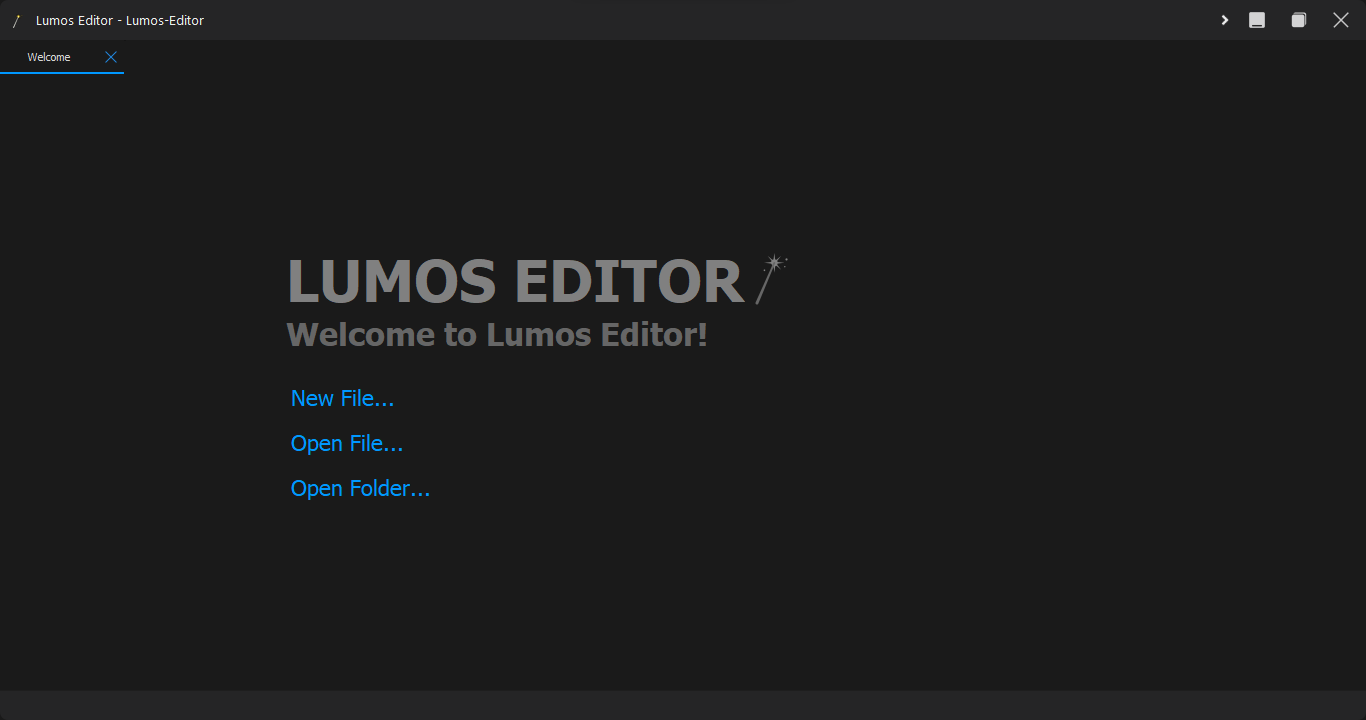
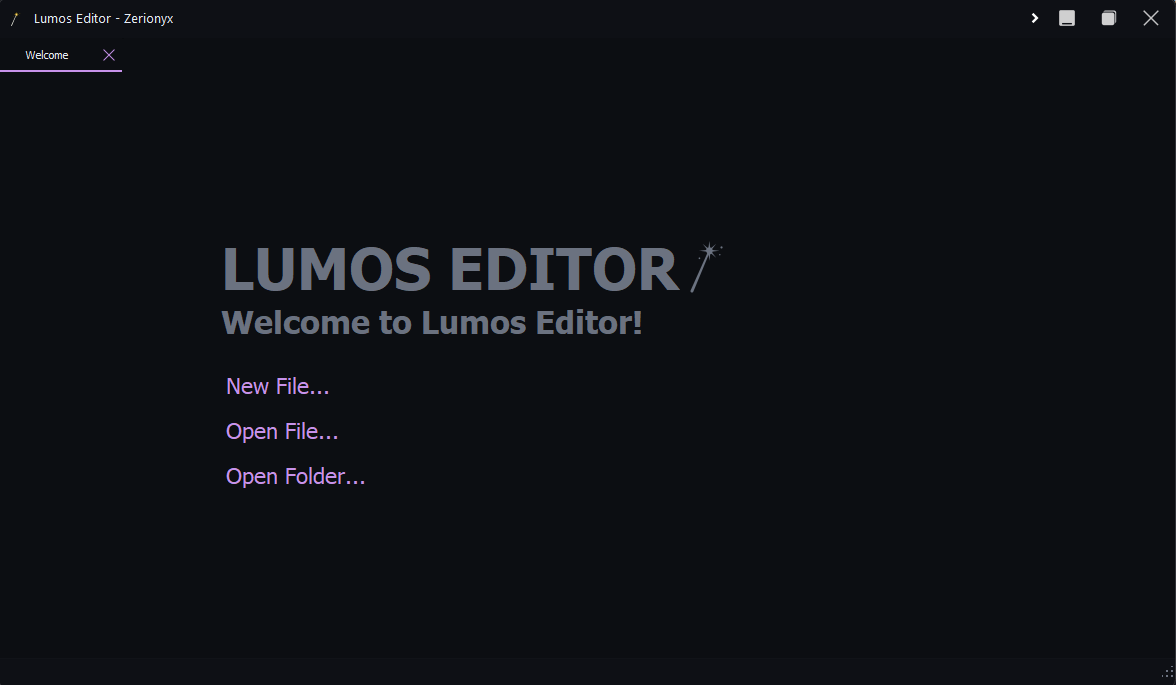
Take a new screenshot

diff --git a/README.md b/README.md
@@ -30,10 +30,6 @@ A modern, extensible code editor built with PyQt5, featuring syntax highlighting
 
 <img src="./imgs/screenshot1.png">
 <img src="./imgs/screenshot2.png">
-<img src="./imgs/screenshot3.png">
-<img src="./imgs/screenshot4.png">
-<img src="./imgs/screenshot5.png">
-<img src="./imgs/screenshot6.png">
  
 ## Features
 